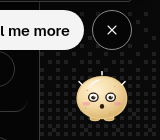
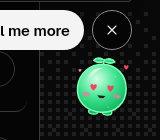
Mote: vivid mint sprout with two leaves that perk up when happy

Changed region(s): [[0.4688, 0.4, 0.8125, 0.8857], [0.75, 0.4571, 0.8125, 0.5143]]

diff --git a/learning-companion/src/components/mote.tsx b/learning-companion/src/components/mote.tsx
@@ -1,4 +1,4 @@
-// Mote: a round little grain of sand. Smooth vector art (crisp at any size),
+// Mote: a round little grain that has sprouted. Smooth vector art (crisp at any size),
 // big glossy eyes that follow the pointer, blinking, breathing squash-and-stretch,
 // and moods: idle, happy, thinking, talking, celebrate, sleepy. Original design.
 import { useEffect, useId, useState } from 'react';
@@ -42,18 +42,36 @@ const SPECKS: [number, number, number][] = [
 
 type Tone = { hi: string; mid: string; lo: string; rim: string; eye: string; cheek: string; speck: string };
 
-function tones(mode: string, dark: boolean, mote: [string, string, string]): Tone {
-  // Mote keeps the same warm sand colour in every theme, so it reads as one character.
+function tones(mode: string, dark: boolean, _mote?: [string, string, string]): Tone {
+  // Mote is a bright mint sprout in every theme: one vivid, energetic character.
   const contrast = mode === 'contrast';
   return {
-    hi: '#FFF1D2',
-    mid: mote[0] ?? '#F3D9A4',
-    lo: mote[1] ?? '#D9B26C',
-    rim: contrast ? (dark ? '#FFFFFF' : '#000000') : dark ? '#E9C989' : '#B4874A',
-    eye: '#2A1D10',
-    cheek: '#F29AA5',
-    speck: mote[2] ?? '#9C7838',
+    hi: '#D4FFE6',
+    mid: '#3FE38E',
+    lo: '#10B862',
+    rim: contrast ? (dark ? '#FFFFFF' : '#000000') : dark ? '#7DFFB6' : '#0A8446',
+    eye: '#0B2618',
+    cheek: '#FF6F9F',
+    speck: '#B8FFD6',
   };
+}
+
+/** Two little leaves on top: Mote is a grain that has started to sprout. */
+function Sprout({ t, perk }: { t: Tone; perk: boolean }) {
+  const tilt = perk ? 8 : 0;
+  return (
+    <G>
+      <Path d="M50 15.5Q49.4 10 50.6 5.5" stroke={t.rim} strokeWidth={2.6} strokeLinecap="round" fill="none" />
+      <G rotation={-tilt} origin="50.4, 7">
+        <Path d="M50.4 7.5C46 0.5 37 0.8 33.5 5.5C38.5 10.5 46.5 10.5 50.4 7.5Z" fill="#5BF29E" stroke={t.rim} strokeWidth={2} strokeLinejoin="round" />
+        <Path d="M49 7.2Q42 5.2 37 5.6" stroke={t.lo} strokeWidth={1.2} strokeLinecap="round" fill="none" />
+      </G>
+      <G rotation={tilt} origin="50.4, 7">
+        <Path d="M50.4 7.5C54.8 0.5 63.8 0.8 67.3 5.5C62.3 10.5 54.3 10.5 50.4 7.5Z" fill="#5BF29E" stroke={t.rim} strokeWidth={2} strokeLinejoin="round" />
+        <Path d="M51.8 7.2Q58.8 5.2 63.8 5.6" stroke={t.lo} strokeWidth={1.2} strokeLinecap="round" fill="none" />
+      </G>
+    </G>
+  );
 }
 
 const HEART = (x: number, y: number, k = 1) =>
@@ -291,7 +309,7 @@ export function Mote({
               bottom: size * 0.04,
               height: size * 0.07,
               borderRadius: size,
-              backgroundColor: c.dark ? '#000' : '#3B2C14',
+              backgroundColor: c.dark ? '#000' : '#0B3D24',
             },
             shadow,
           ]}
@@ -313,9 +331,10 @@ export function Mote({
           {/* Little feet */}
           <Ellipse cx={39} cy={88.5} rx={7.5} ry={4.2} fill={t.lo} stroke={t.rim} strokeWidth={2} />
           <Ellipse cx={61} cy={88.5} rx={7.5} ry={4.2} fill={t.lo} stroke={t.rim} strokeWidth={2} />
+          <Sprout t={t} perk={mood === 'happy' || mood === 'celebrate' || mood === 'love' || mood === 'surprised' || mood === 'wave'} />
           <Path d={BODY} fill={`url(#b${uid})`} stroke={t.rim} strokeWidth={2.4} />
           {SPECKS.map(([x, yy, r]) => (
-            <Circle key={`${x}-${yy}`} cx={x} cy={yy} r={r} fill={t.speck} opacity={0.45} />
+            <Circle key={`${x}-${yy}`} cx={x} cy={yy} r={r} fill={t.speck} opacity={0.55} />
           ))}
           {/* Shine */}
           <Path d="M27 34C30 24 40 18.5 49 18.5C42 22 35 28 31.5 37C30 40.5 25.8 38.5 27 34Z" fill={`url(#s${uid})`} />
@@ -352,7 +371,6 @@ export function Mote({
             <G stroke={c.dark ? '#FFFFFF' : '#5A6170'} strokeWidth={2.4} strokeLinecap="round">
               <Path d="M14 22L19 28" />
               <Path d="M86 22L81 28" />
-              <Path d="M50 4V10" />
             </G>
           )}
           {mood === 'sleepy' && (
